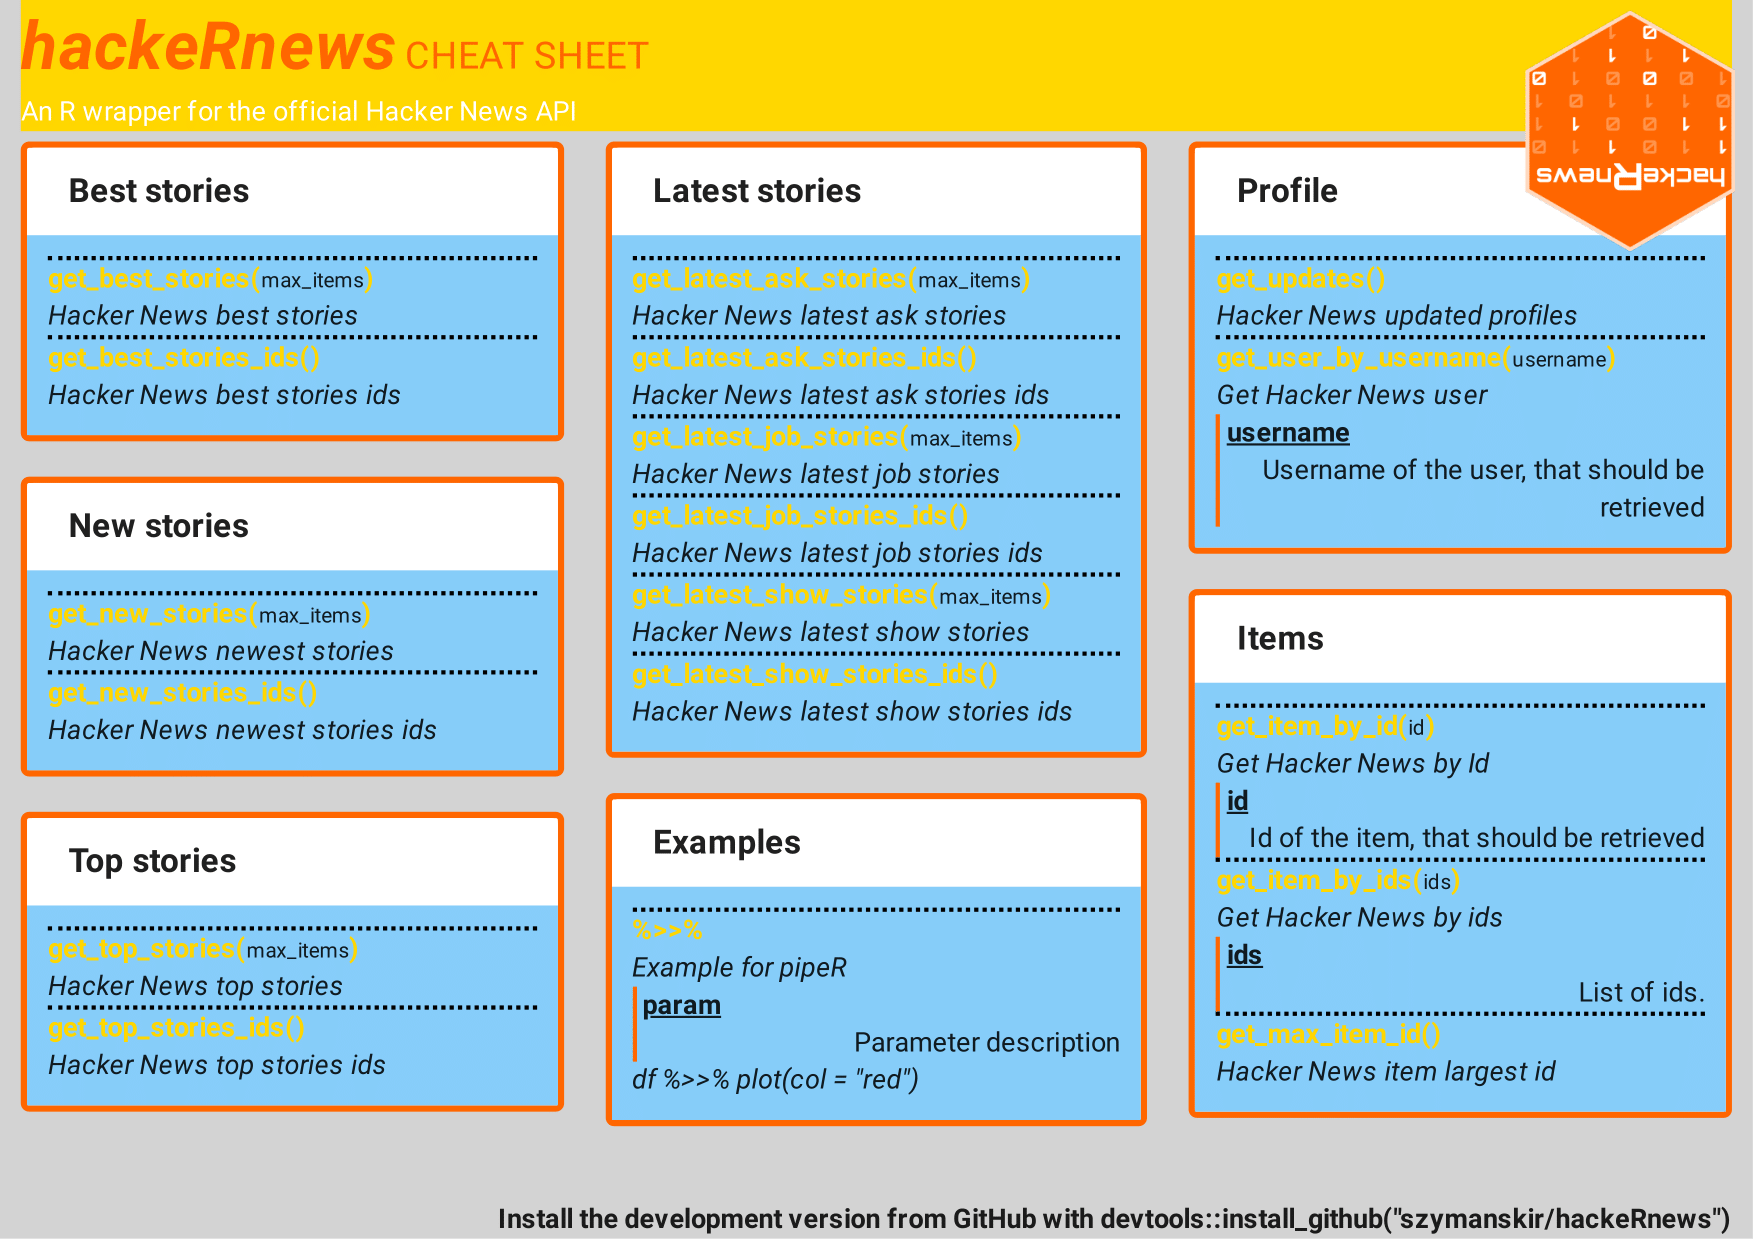
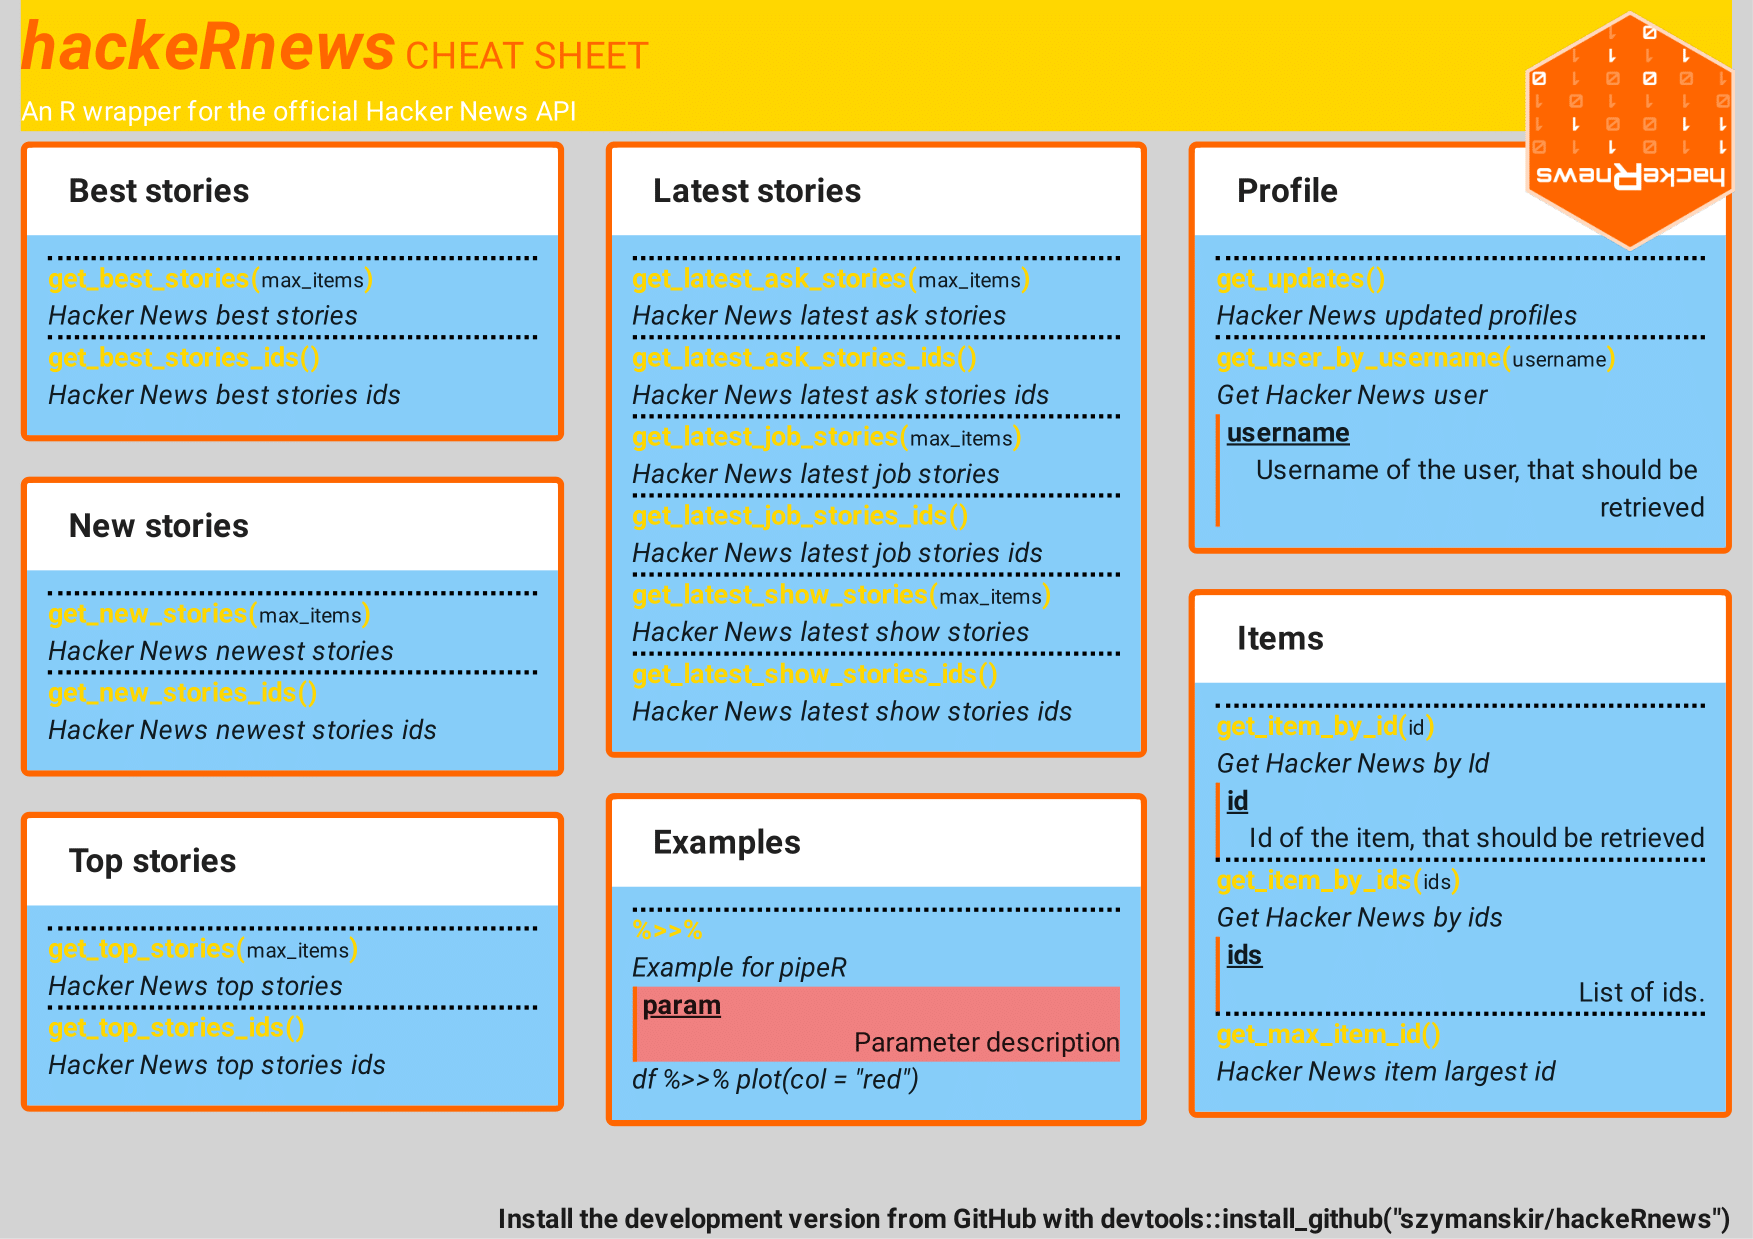
Add *Classes parameter to objects (#29)

Changed region(s): [[0.3388, 0.7974, 0.6469, 0.8588], [0.7085, 0.368, 0.9857, 0.3987]]

diff --git a/frontend/src/Method.js b/frontend/src/Method.js
@@ -8,16 +8,16 @@ export default function Method({ method }) {
     }
 
     return (
-        <div className="method">
+        <div className={`method ${method.classes || ""}`}>
             <p>
-                <span className="method-name">{method.name}{method.withoutBrackets !== true && '('}</span>
-                <span className="method-parameter">{
+                <span className={`method-name ${method.nameClasses || ""}`}>{method.name}{method.withoutBrackets !== true && '('}</span>
+                <span className={`method-parameter ${method.parameterClasses || ""}`}>{
                     method.withoutBrackets !== true && method.params &&
                     method.params.map(p => p.name).join(', ')
                 }</span>
-                <span className="method-name">{method.withoutBrackets !== true && ')'}</span>
+                <span className={`method-name ${method.nameClasses || ""}`}>{method.withoutBrackets !== true && ')'}</span>
             </p>
-            <p className="method-description">{method.description}</p>
+            <p className={`method-description ${method.descriptionClasses || ""}`}>{method.description}</p>
             {method.params && method.params.map((p, i) =>
                 <Parameter
                     key={i}

diff --git a/frontend/src/Parameter.js b/frontend/src/Parameter.js
@@ -5,9 +5,9 @@ export default function Parameter({ parameter }) {
         return null;
 
     return (
-        <div className="parameter">
-            <p className="parameter-name">{parameter.name}</p>
-            <p className="parameter-description">{parameter.description}</p>
+        <div className={`parameter ${parameter.classes || ""}`}>
+            <p className={`parameter-name ${parameter.nameClasses || ""}`}>{parameter.name}</p>
+            <p className={`parameter-description ${parameter.decsriptionClasses || ""}`}>{parameter.description}</p>
         </div>
     );
 }

diff --git a/frontend/src/MethodsCard.js b/frontend/src/MethodsCard.js
@@ -8,9 +8,9 @@ export default function MethodsCard({ content }) {
     }
 
     return (
-        <Card>
-            <Card.Header>{content.title}</Card.Header>
-            <Card.Body>
+        <Card className={content.classes || ""}>
+            <Card.Header className={content.headerClasses || ""}>{content.title}</Card.Header>
+            <Card.Body className={content.bodyClasses || ""}>
                 {content.methods && content.methods.map((m, i) =>
                     <Method
                         key={i}

diff --git a/frontend/src/Example.js b/frontend/src/Example.js
@@ -2,8 +2,8 @@ import React from 'react';
 
 export default function Example({ example }) {
     return (
-        <div className="example">
-            <p>{example}</p>
+        <div className={`example ${example.classes || ""}`}>
+            <p>{example.name}</p>
         </div>
     );
 }

diff --git a/example/readme-example/style.css b/example/readme-example/style.css
@@ -66,3 +66,7 @@
 .footer {
   font-weight: bold;
 }
+
+.my-parameter {
+  background-color: lightcoral;
+}

diff --git a/README.md b/README.md
@@ -31,12 +31,22 @@ File structure is presented below:
 	"pages": [{
     "cards": [{
       "title": "Card title",
+      "classes": "card_specific_class another_card_specific_class",
+      "headerClasses": "card_header_specific_class",
+      "bodyClasses": "card_body_specific_class",      
       "methods": [{
         "name": "method",
         "description": "Method description",
+        "classes": "method_specific_class",
+        "nameClasses": "method_name_specific_class",
+        "descriptionClasses": "method_description_specific_class",  
+        "parameterClasses": "method_parameter_in_brackets_specific_class",
         "params": [{
           "name": "param",
-          "description": "Parameter description"
+          "description": "Parameter description",
+          "classes": "parameter_specific_class",
+          "nameClasses": "parameter_name_specific_class",
+          "descriptionClasses": "paremetr_description_specific_class"
         }]
       },{
         "name": "method_without_brackets",
@@ -46,9 +56,10 @@ File structure is presented below:
           "name": "param",
           "description": "Parameter description"
         }],
-        "examples": [
-          "method_without_brackets(1)"
-        ]
+        "examples": [{
+          "name": "method_without_brackets(1)",
+          "classes": "example_specific_class"
+        }]
       }]
     }]
   }]
@@ -56,7 +67,9 @@ File structure is presented below:
 
 ```
 
-Elements of pages array are cards located on specific page. Cards are displayed in columns in order set in configuration file. For each card title and methods can be defined. Methods is an array containing names, descriptions and parameters. Method parameters are printed between "()" next to method name. In addition, if parameter description is defined, parameter description will appear under method description.
+Elements of pages array are cards located on specific page. Cards are displayed in columns in order set in configuration file. For each card title and methods can be defined. Methods is an array containing names, descriptions and parameters. If `withoutBrackets` parameter is not set to `true`, then method parameters are printed between `()` next to method name. In addition, if parameter description is defined, parameter description will appear under method description. Also examples for each method can be added. 
+
+For cards, methods, parameters and examples specific css classes can be defined by `*Classes` parameters, as presented in file structure. If more than one class needs to be specified, they can be splitted with space. Names for these classes need to be different, than already existing ones.
 
 ## Styles configuration
 
